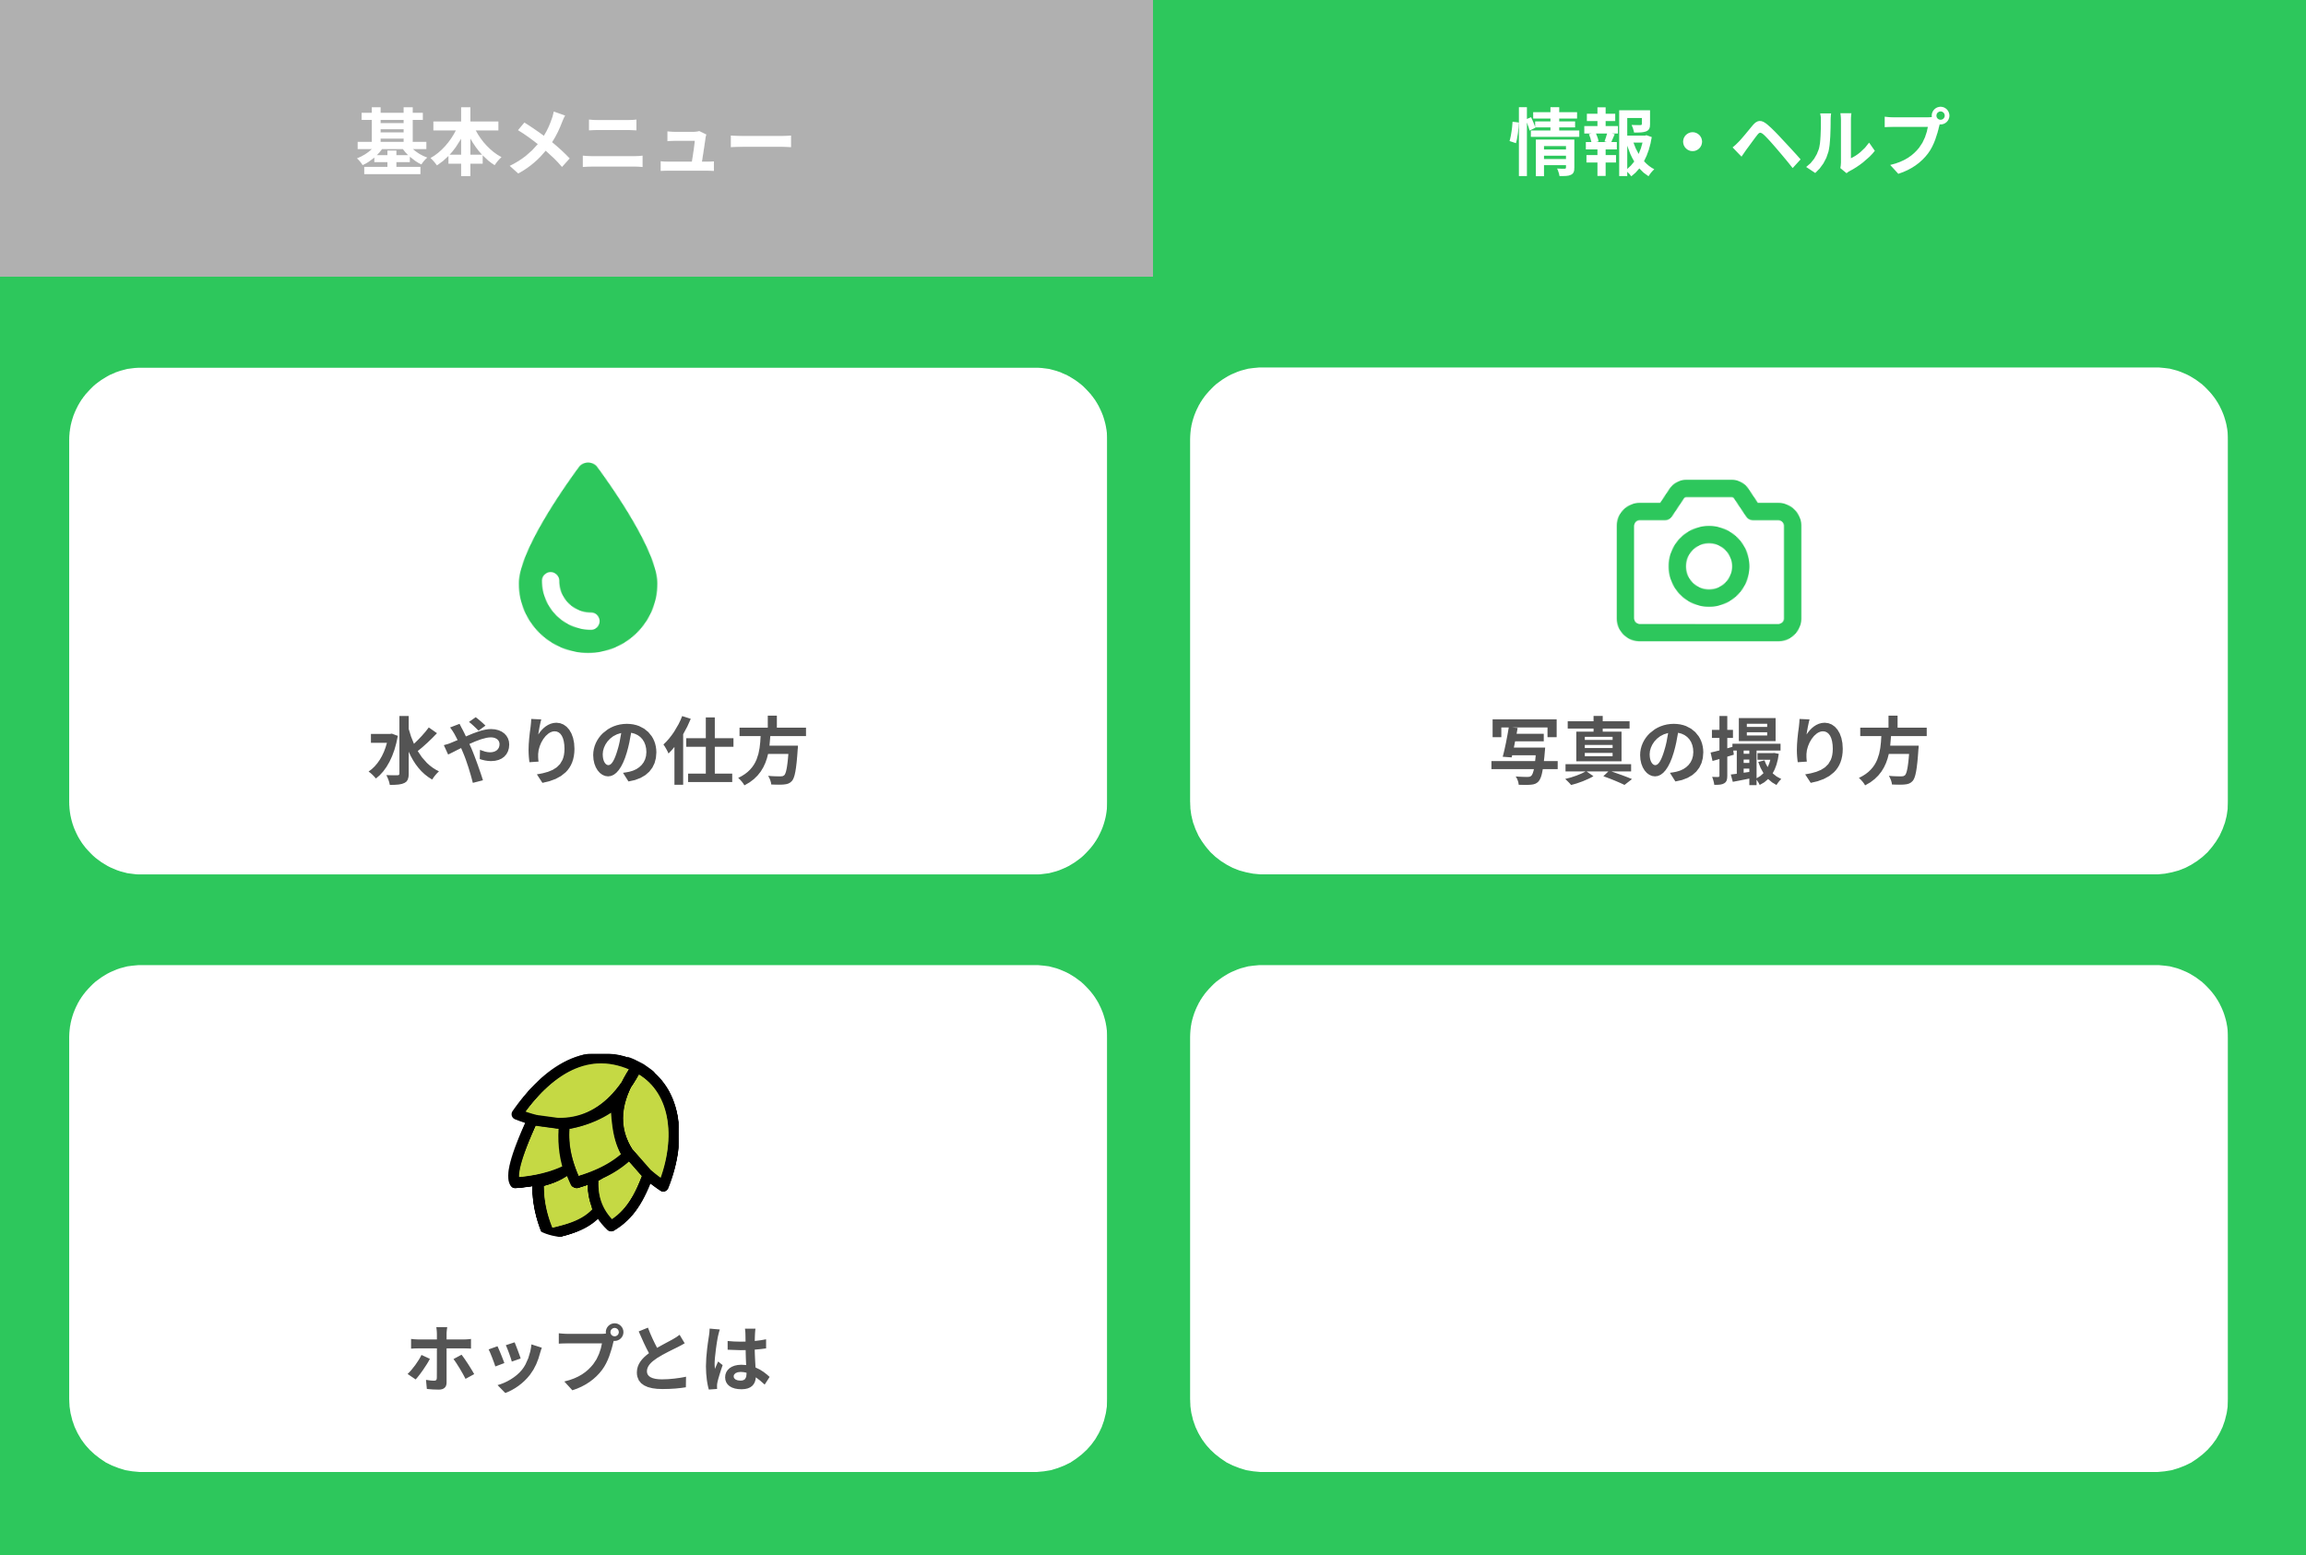
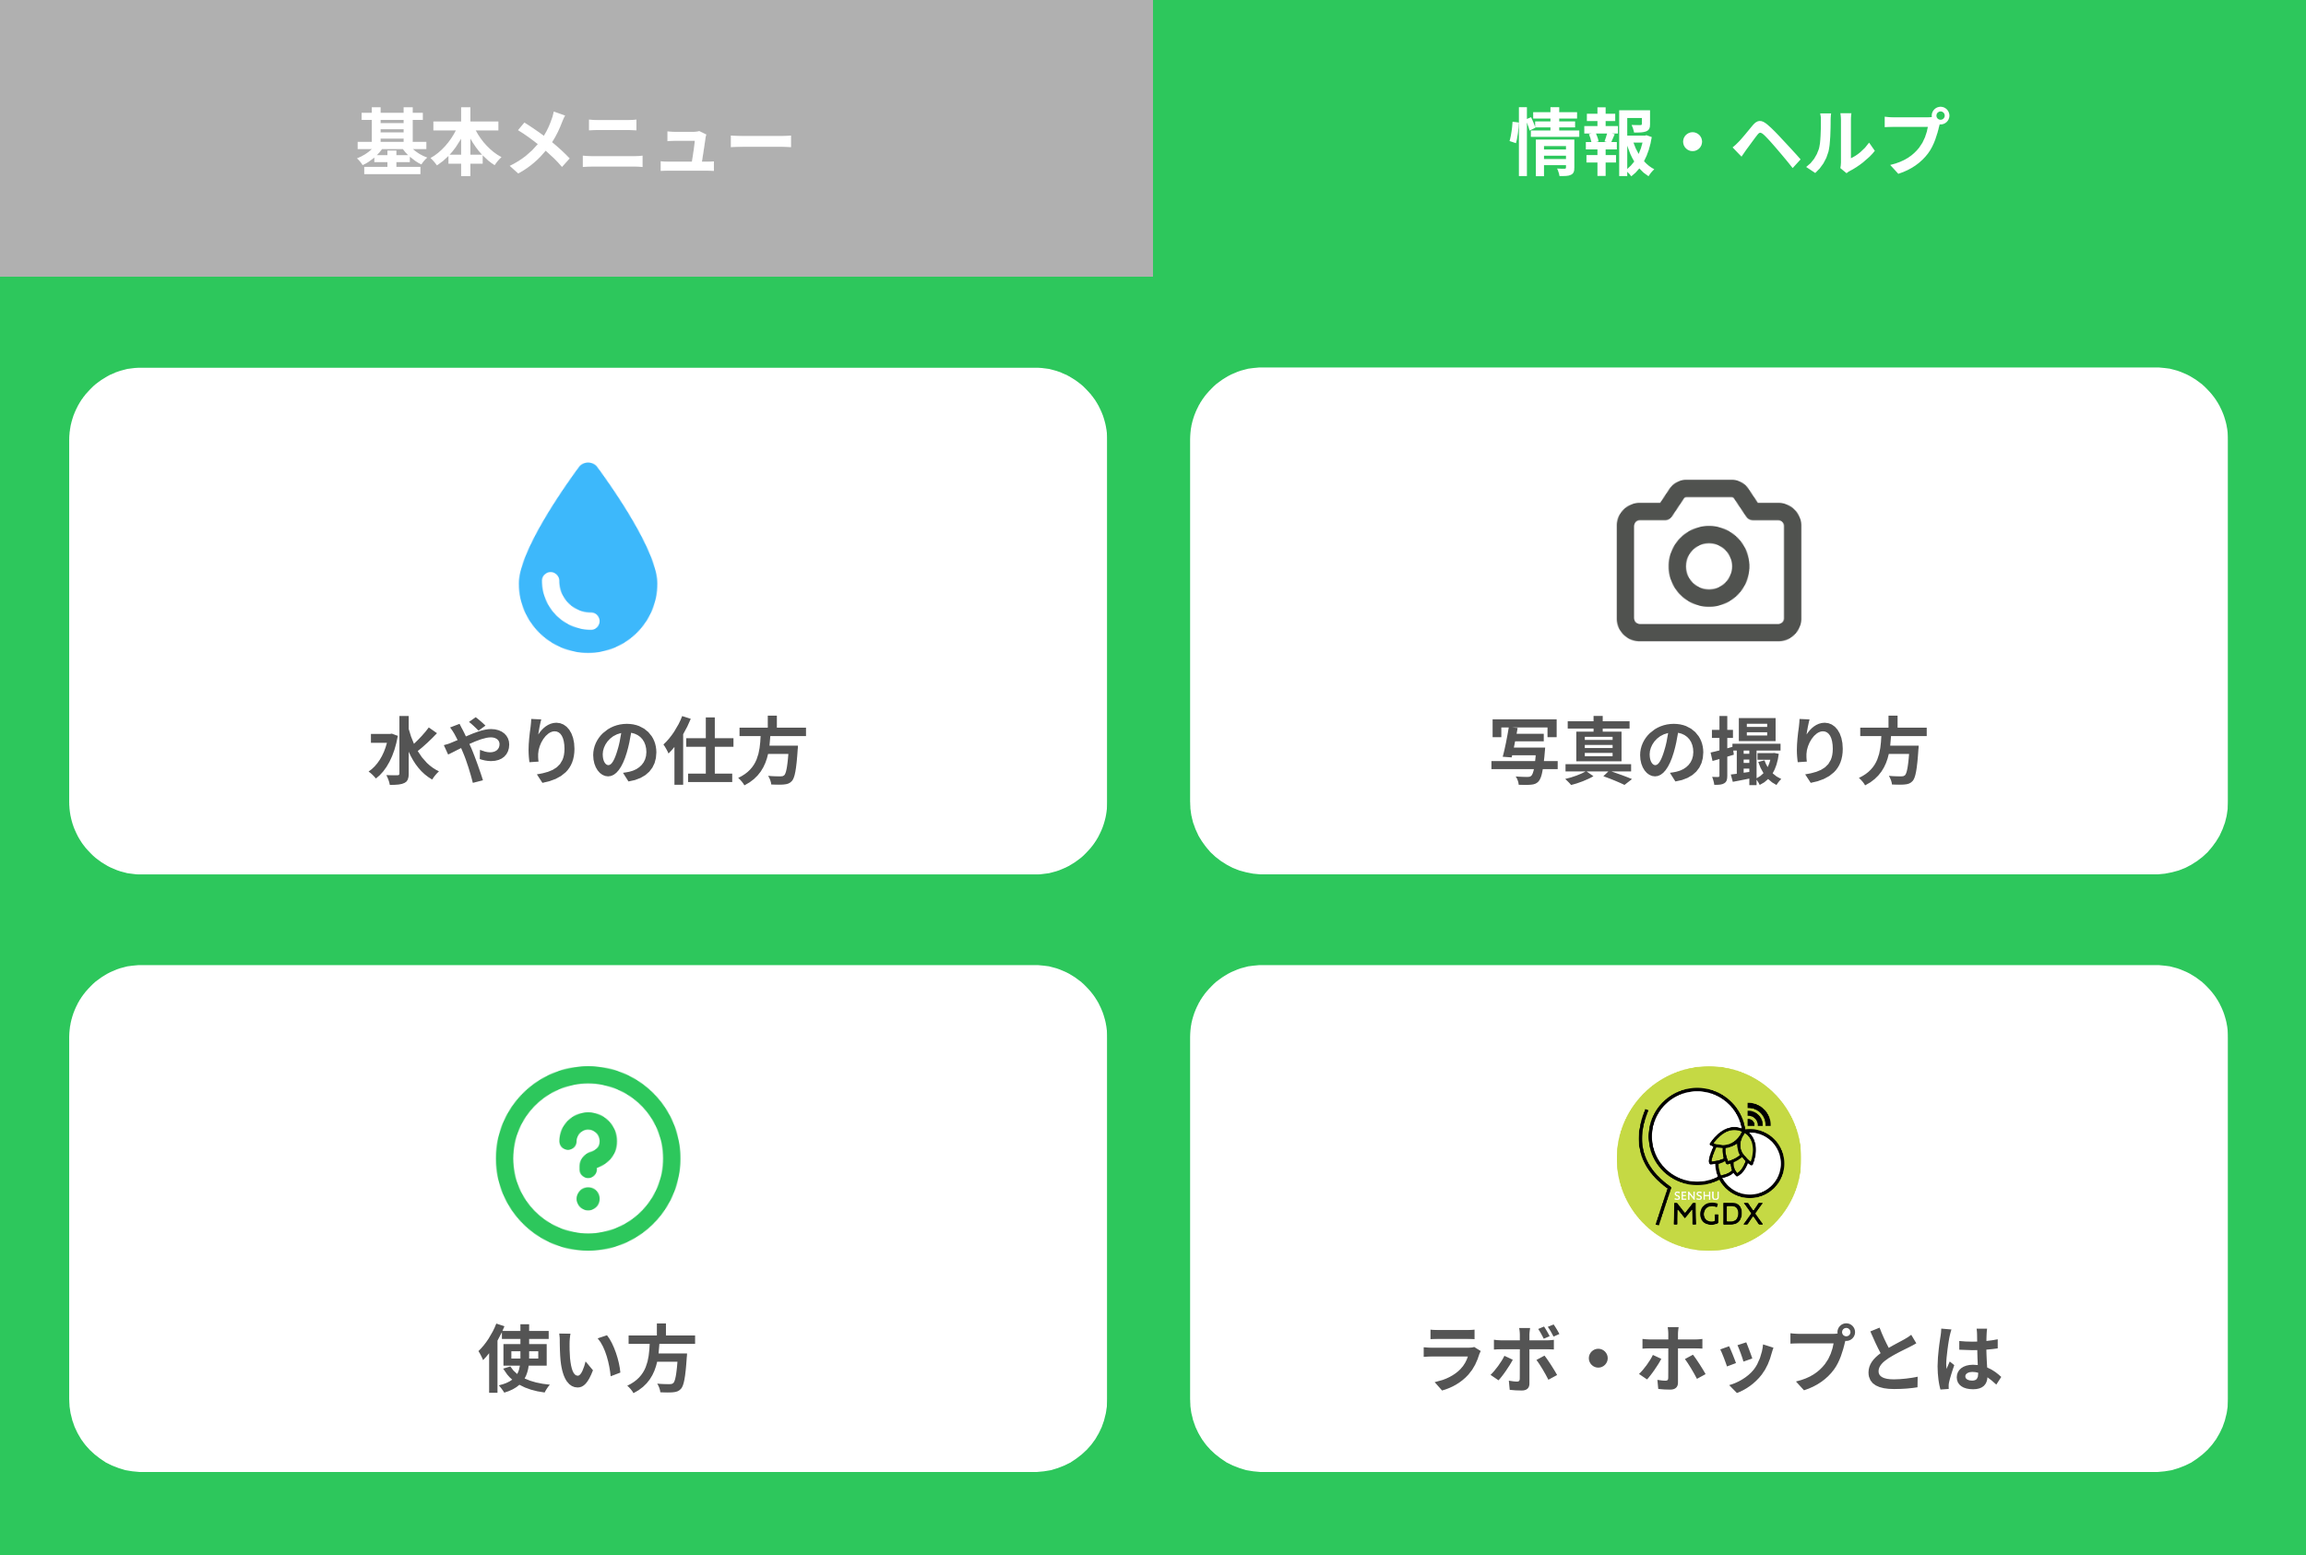
リッチメニュー修正
リッチメニューを修正しました。

diff --git a/frontend/setup-richmenu.js b/frontend/setup-richmenu.js
@@ -36,10 +36,10 @@ const menuB = {
     // 左タブ（基本メニュー）領域：タップで menu-a に切り替え
     { bounds: { x: 0, y: 0, width: 1250, height: 300 }, action: { type: "richmenuswitch", richMenuAliasId: "menu-a", data: "to-a" } },
     // 各メニューボタン（仮）
-    { bounds: { x: 0, y: 300, width: 1250, height: 693 }, action: { type: "message", text: "水やりの仕方" } }, // 左上（水やりの仕方）
-    { bounds: { x: 1250, y: 300, width: 1250, height: 693 }, action: { type: "message", text: "写真の撮り方" } }, // 右上（写真の撮り方）
-    { bounds: { x: 0, y: 993, width: 1250, height: 693 }, action: { type: "message", text: "ホップとは" } }, // 左下（ホップとは）
-    { bounds: { x: 1250, y: 993, width: 1250, height: 693 }, action: { type: "message", text: "Comming Soon..." } } // 右下（Comming Soon...）
+    { bounds: { x: 0, y: 300, width: 1250, height: 693 }, action: { type: "message", text: "水やりの仕方" } }, // 左上
+    { bounds: { x: 1250, y: 300, width: 1250, height: 693 }, action: { type: "message", text: "写真の撮り方" } }, // 右上
+    { bounds: { x: 0, y: 993, width: 1250, height: 693 }, action: { type: "message", text: "使い方" } }, // 左下
+    { bounds: { x: 1250, y: 993, width: 1250, height: 693 }, action: { type: "message", text: "ラボ・ホップとは" } } // 右下
   ]
 };
 
